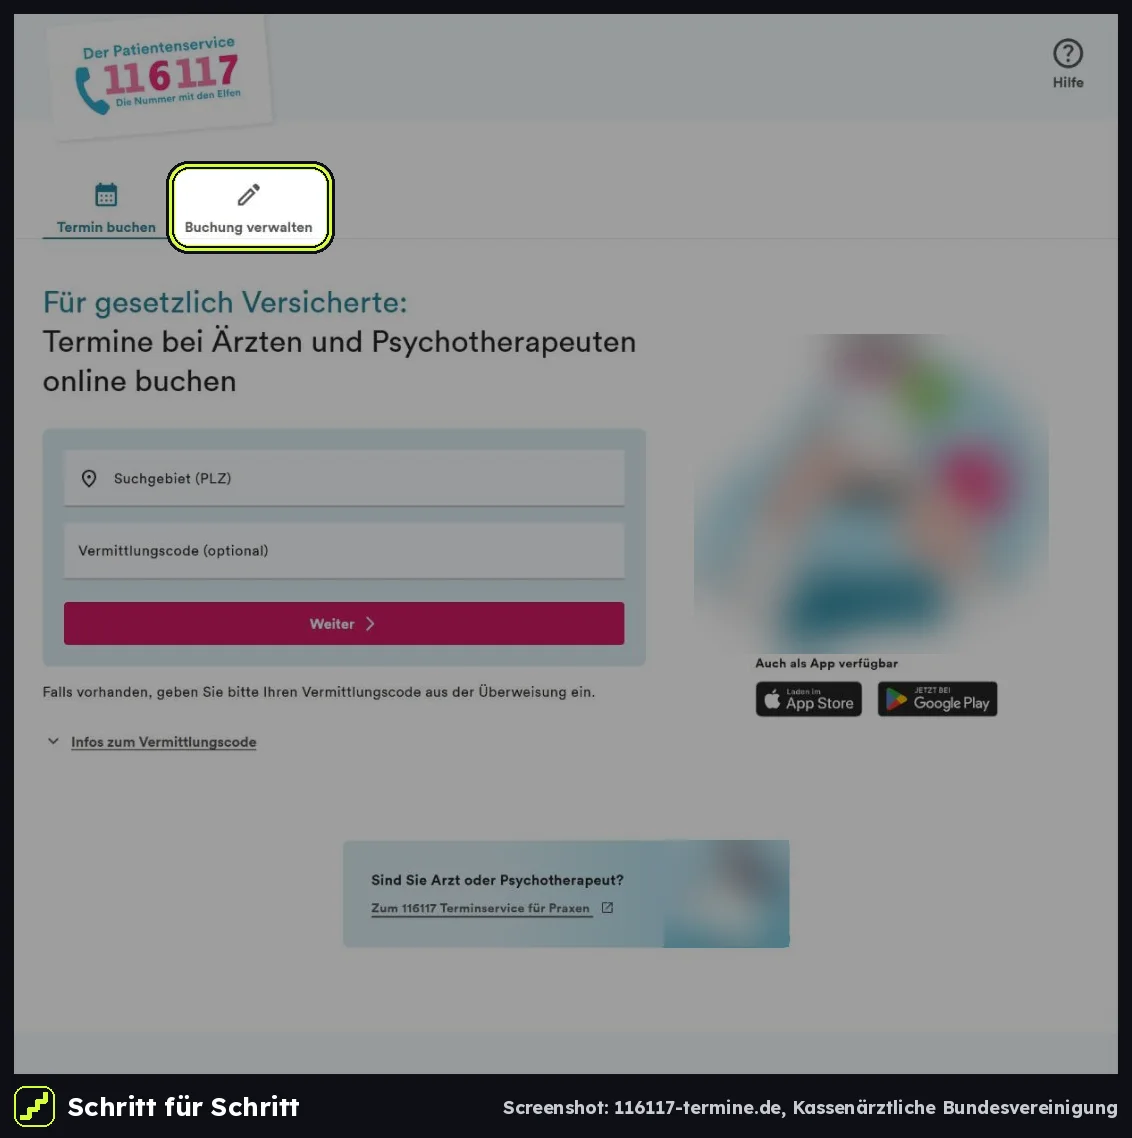
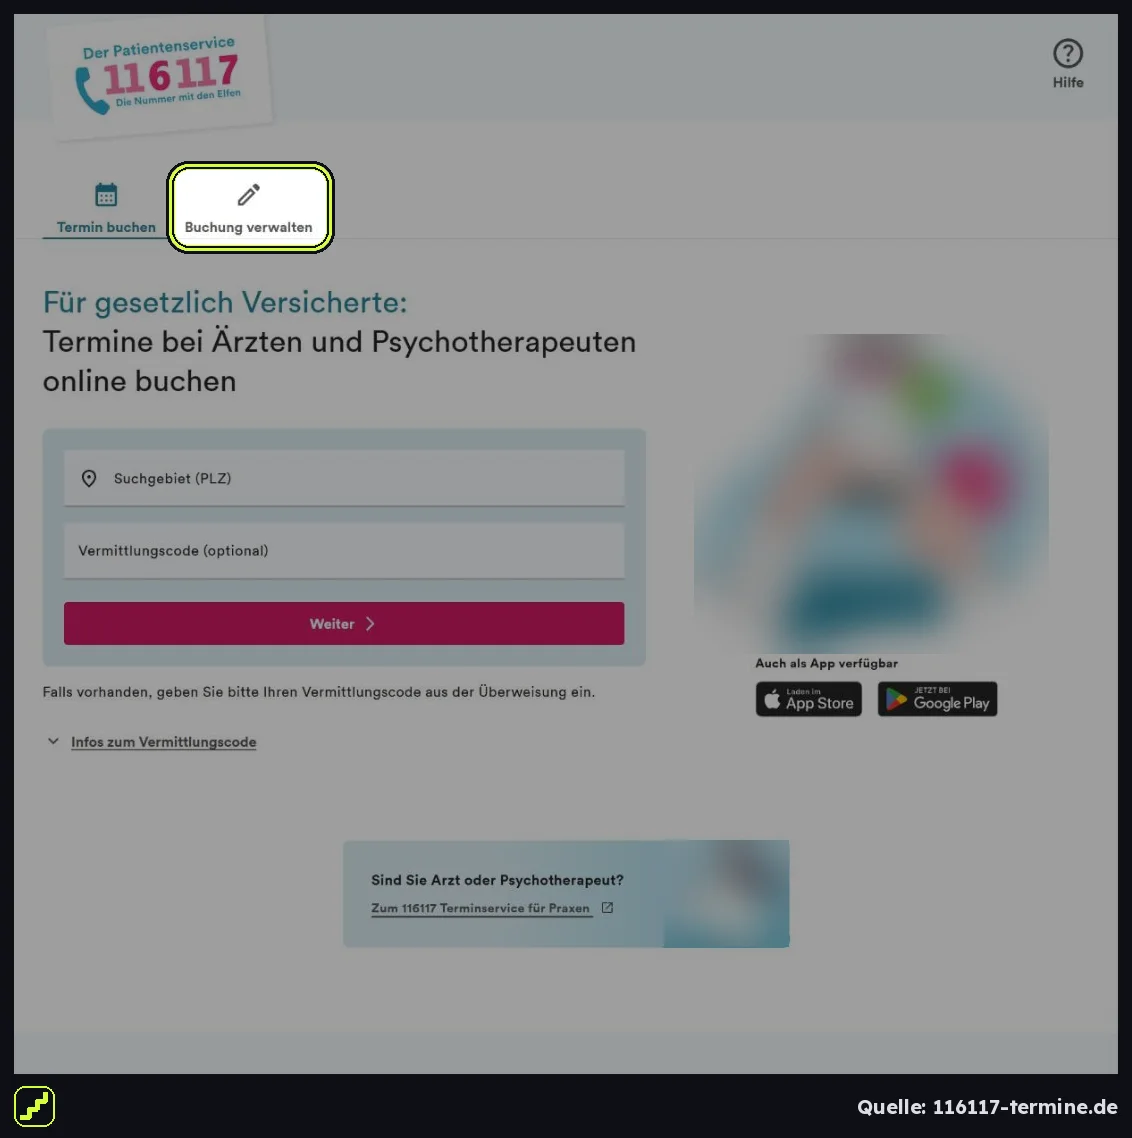
Bildunterschrift vereinfacht, kein Plattform-Name auf den Screenshots
- Unter dem Bild: „Hier tippen: grün umrandet“ mit Farbbeispiel, darunter
  „Bild vergrößern“ und „Quelle: …“ getrennt
- Quellenangaben gekürzt (z. B. „116117-termine.de“)
- Leiste unter den Screenshots nur noch mit Zeichen und Quelle
- seed:aktualisieren ersetzt geänderte Bilddateien und Quellenangaben

Claude-Session: https://claude.ai/code/session_01CGfmPmrn99yNmknkkuHQEm

Changed region(s): [[0.4329, 0.9534, 0.9894, 0.9842], [0.0618, 0.9534, 0.2783, 0.9842]]

diff --git a/src/seed/guides/gesundheit.ts b/src/seed/guides/gesundheit.ts
@@ -69,7 +69,7 @@ export const gesundheit: Guide[] = [
         image: {
           src: "/screenshots/arzttermin-online-buchen/registrieren.webp",
           alt: "Doctolib-Seite „Neu bei Doctolib?“ mit dem markierten blauen Knopf „Registrieren“. Darunter „Haben Sie bereits ein Konto?“ mit „Einloggen“.",
-          credit: "Screenshot: doctolib.de (Ansicht am Computer), Doctolib",
+          credit: "doctolib.de",
         },
       },
       {
@@ -82,7 +82,7 @@ export const gesundheit: Guide[] = [
         image: {
           src: "/screenshots/arzttermin-online-buchen/praxis-suchen.webp",
           alt: "Suchleiste auf doctolib.de: Feld „Name, Fachgebiet, Einrichtung“ (1), Feld für Ort oder Postleitzahl (2) und Knopf „Suchen“ (3); alle markiert.",
-          credit: "Screenshot: doctolib.de (Ansicht am Computer), Doctolib",
+          credit: "doctolib.de",
         },
       },
       {
@@ -143,7 +143,7 @@ export const gesundheit: Guide[] = [
         image: {
           src: "/screenshots/termin-116117/plz-eingeben.webp",
           alt: "Startseite von 116117-termine.de: Feld „Suchgebiet (PLZ)“ mit Beispiel-Postleitzahl (1) und Knopf „Weiter“ (2); beide markiert. Daneben das Feld „Vermittlungscode (optional)“.",
-          credit: "Screenshot: 116117-termine.de (Ansicht am Computer), Kassenärztliche Bundesvereinigung",
+          credit: "116117-termine.de",
         },
       },
       {
@@ -152,7 +152,7 @@ export const gesundheit: Guide[] = [
         image: {
           src: "/screenshots/termin-116117/termine-anzeigen.webp",
           alt: "Liste „Ohne Überweisung online buchbar“ mit Hausarzt, Augenarzt und Frauenarzt. Beim Hausarzt ist „Termine anzeigen“ markiert.",
-          credit: "Screenshot: 116117-termine.de (Ansicht am Computer), Kassenärztliche Bundesvereinigung",
+          credit: "116117-termine.de",
         },
         tip: "Die Terminservicestelle muss Ihnen bei dringenden Überweisungen innerhalb von 4 Wochen einen Termin anbieten – allerdings nicht unbedingt bei Ihrer Wunschpraxis.",
       },
@@ -162,7 +162,7 @@ export const gesundheit: Guide[] = [
         image: {
           src: "/screenshots/termin-116117/buchung-verwalten.webp",
           alt: "Oberer Bereich von 116117-termine.de mit den Reitern „Termin buchen“ und „Buchung verwalten“. „Buchung verwalten“ ist markiert.",
-          credit: "Screenshot: 116117-termine.de (Ansicht am Computer), Kassenärztliche Bundesvereinigung",
+          credit: "116117-termine.de",
         },
       },
     ],

diff --git a/src/components/StepContent.tsx b/src/components/StepContent.tsx
@@ -5,7 +5,7 @@ export function StepContent({ step }: { step: Step }) {
     <div className="space-y-5">
       <p className="text-[1.2rem] leading-relaxed sm:text-[1.35rem]">{step.text}</p>
       {step.image && (
-        <figure className="space-y-2">
+        <figure className="space-y-3">
           <a href={step.image.src} target="_blank" rel="noopener" className="block" aria-label="Bild groß anzeigen (öffnet neues Fenster)">
             {/* eslint-disable-next-line @next/next/no-img-element */}
             <img
@@ -15,8 +15,17 @@ export function StepContent({ step }: { step: Step }) {
               className="max-h-[75vh] w-auto max-w-full rounded-2xl bg-ink"
             />
           </a>
-          <figcaption className="text-base text-ink-soft">
-            {step.image.credit ? `${step.image.credit}. ` : ""}Die hell umrandete Stelle ist die, auf die Sie tippen bzw. klicken. Antippen vergrößert das Bild.
+          <figcaption className="space-y-2">
+            <p className="flex items-center gap-3 text-lg font-semibold">
+              <span className="h-6 w-6 shrink-0 rounded-md border-[3px] border-signal outline outline-2 outline-ink" aria-hidden="true" />
+              Hier tippen: grün umrandet
+            </p>
+            <p className="flex flex-wrap items-center gap-x-4 gap-y-1 text-base text-ink-soft">
+              <a href={step.image.src} target="_blank" rel="noopener" className="font-semibold text-ink underline">
+                Bild vergrößern
+              </a>
+              {step.image.credit && <span>Quelle: {step.image.credit}</span>}
+            </p>
           </figcaption>
         </figure>
       )}

diff --git a/src/seed/media.ts b/src/seed/media.ts
@@ -1,3 +1,4 @@
+import fs from "node:fs";
 import path from "node:path";
 import type { Payload } from "payload";
 import type { Step } from "../content/types";
@@ -8,12 +9,21 @@ import type { Step } from "../content/types";
  * wird das vorhandene genommen.
  */
 export async function ensureImage(payload: Payload, image: NonNullable<Step["image"]>): Promise<number> {
+  const filePath = path.resolve(process.cwd(), "public", image.src.replace(/^\//, ""));
   const found = await payload.find({ collection: "media", where: { alt: { equals: image.alt } }, limit: 1, depth: 0 });
-  if (found.docs[0]) return found.docs[0].id as number;
+  const existing = found.docs[0];
+  if (existing) {
+    // Neue Fassung des Bildes oder neue Quellenangabe? Dann Datei und Angabe ersetzen.
+    const size = fs.statSync(filePath).size;
+    if (existing.filesize !== size || (existing.credit ?? "") !== (image.credit ?? "")) {
+      await payload.update({ collection: "media", id: existing.id, data: { credit: image.credit }, filePath, overwriteExistingFiles: true });
+    }
+    return existing.id as number;
+  }
   const doc = await payload.create({
     collection: "media",
     data: { alt: image.alt, credit: image.credit },
-    filePath: path.resolve(process.cwd(), "public", image.src.replace(/^\//, "")),
+    filePath,
   });
   return doc.id as number;
 }

diff --git a/src/seed/guides/bezahlen.ts b/src/seed/guides/bezahlen.ts
@@ -30,7 +30,7 @@ export const bezahlen: Guide[] = [
         image: {
           src: "/screenshots/sicher-online-bezahlen/fakeshop-finder.webp",
           alt: "Fakeshop-Finder der Verbraucherzentrale: Eingabefeld für die Shop-Adresse (1) und roter Knopf „Shop-URL prüfen“ (2); beide markiert.",
-          credit: "Screenshot: Fakeshop-Finder, verbraucherzentrale.de",
+          credit: "verbraucherzentrale.de (Fakeshop-Finder)",
         },
       },
       {
@@ -76,7 +76,7 @@ export const bezahlen: Guide[] = [
         image: {
           src: "/screenshots/paypal-einrichten/neu-anmelden.webp",
           alt: "Startseite von paypal.com. Oben rechts: „Hilfe“, „Einloggen“ und dem markierten Knopf „Neu anmelden“.",
-          credit: "Screenshot: paypal.com (Ansicht am Computer), PayPal",
+          credit: "paypal.com",
         },
       },
       {
@@ -86,7 +86,7 @@ export const bezahlen: Guide[] = [
         image: {
           src: "/screenshots/paypal-einrichten/privat-jetzt-starten.webp",
           alt: "Auswahl bei PayPal: Feld „Privat“ (1) ist gewählt und markiert, darunter der markierte Knopf „Jetzt starten“ (2). Rechts daneben das Feld „Business“.",
-          credit: "Screenshot: paypal.com (Ansicht am Computer), PayPal",
+          credit: "paypal.com",
         },
       },
       {

diff --git a/src/seed/aktualisieren.ts b/src/seed/aktualisieren.ts
@@ -45,6 +45,13 @@ async function attachImages(dbSteps: DbStep[] | null | undefined, seedSteps: Ste
   return { steps, changed, missing };
 }
 
+// Zuerst alle Bilder auffrischen (neue Fassung der Datei oder neue Quellenangabe)
+for (const g of guides) {
+  for (const st of [...(g.steps ?? []), ...(g.variants ?? []).flatMap((v) => v.steps)]) {
+    if (st.image) await ensureImage(payload, st.image);
+  }
+}
+
 for (const g of guides) {
   const found = await payload.find({ collection: "guides", where: { slug: { equals: g.slug } }, limit: 1, depth: 0, draft: true });
   const doc = found.docs[0];
